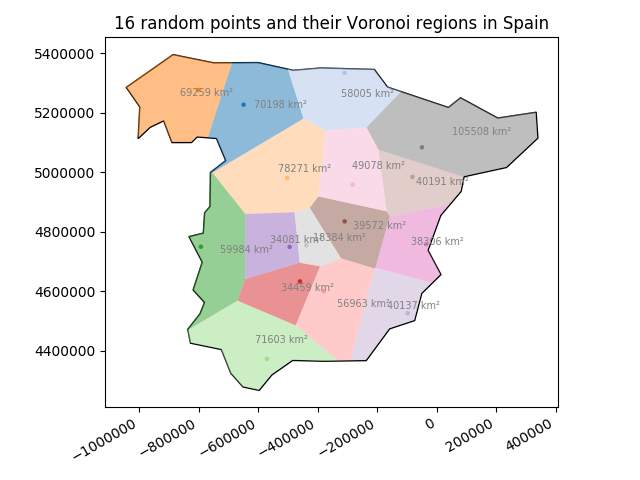
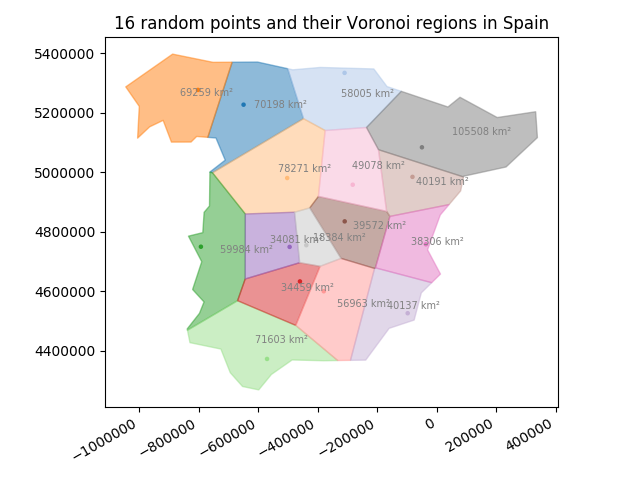
added option shapes_from_diff_with_min_area to voronoi_regions_from_coords

diff --git a/geovoronoi/_voronoi.py b/geovoronoi/_voronoi.py
@@ -11,8 +11,8 @@ import logging
 import numpy as np
 from scipy.spatial import Voronoi
 from scipy.spatial.distance import cdist
-from shapely.geometry import LineString, asPoint
-from shapely.ops import polygonize
+from shapely.geometry import MultiPolygon, LineString, asPoint
+from shapely.ops import polygonize, cascaded_union
 
 from ._geom import polygon_around_center
 
@@ -29,9 +29,11 @@ def points_to_coords(pts):
     return np.array([p.coords[0] for p in pts])
 
 
-def voronoi_regions_from_coords(coords, geo_shape, accept_n_coord_duplicates=0):
-    logger.info('running Voronoi tesselation for %d points with %d expected duplicates'
-                % (len(coords), accept_n_coord_duplicates))
+def voronoi_regions_from_coords(coords, geo_shape,
+                                shapes_from_diff_with_min_area=None,
+                                accept_n_coord_duplicates=None,
+                                return_unassigned_points=False):
+    logger.info('running Voronoi tesselation for %d points' % len(coords))
     vor = Voronoi(coords)
     logger.info('generated %d Voronoi regions' % (len(vor.regions)-1))
 
@@ -39,15 +41,20 @@ def voronoi_regions_from_coords(coords, geo_shape, accept_n_coord_duplicates=0):
     poly_lines = polygon_lines_from_voronoi(vor, geo_shape)
 
     logger.info('generating Voronoi polygon shapes')
-    poly_shapes = polygon_shapes_from_voronoi_lines(poly_lines, geo_shape)
+    poly_shapes = polygon_shapes_from_voronoi_lines(poly_lines, geo_shape,
+                                                    shapes_from_diff_with_min_area=shapes_from_diff_with_min_area)
 
     logger.info('assigning %d points to %d Voronoi polygons' % (len(coords), len(poly_shapes)))
     points = coords_to_points(coords)
-    poly_to_pt_assignments = assign_points_to_voronoi_polygons(points, poly_shapes,
-                                                               accept_n_coord_duplicates=accept_n_coord_duplicates,
-                                                               coords=coords)
+    poly_to_pt_assignments, unassigned_pts = assign_points_to_voronoi_polygons(points, poly_shapes,
+                                                                               accept_n_coord_duplicates=accept_n_coord_duplicates,
+                                                                               return_unassigned_points=True,
+                                                                               coords=coords)
 
-    return poly_shapes, points, poly_to_pt_assignments
+    if return_unassigned_points:
+        return poly_shapes, points, poly_to_pt_assignments, list(unassigned_pts)
+    else:
+        return poly_shapes, points, poly_to_pt_assignments
 
 
 def polygon_lines_from_voronoi(vor, geo_shape, return_only_poly_lines=True):
@@ -117,6 +124,9 @@ def polygon_lines_from_voronoi(vor, geo_shape, return_only_poly_lines=True):
     if not far_points_hull.contains(geo_shape):   # if that's the case, merge it by taking the union
         far_points_hull = far_points_hull.union(geo_shape)
 
+    # vor_mpoly = MultiPolygon([p for p in polygonize(poly_lines)])
+    # far_points_hull = far_points_hull.union(vor_mpoly)
+
     # now add the lines that make up `far_points_hull` to the final `poly_lines` list
     far_points_hull_coords = far_points_hull.exterior.coords
     for i, pt in list(enumerate(far_points_hull_coords))[1:]:
@@ -129,7 +139,7 @@ def polygon_lines_from_voronoi(vor, geo_shape, return_only_poly_lines=True):
         return poly_lines, loose_ridges, far_points
 
 
-def polygon_shapes_from_voronoi_lines(poly_lines, geo_shape=None):
+def polygon_shapes_from_voronoi_lines(poly_lines, geo_shape=None, shapes_from_diff_with_min_area=None):
     """
     Form shapely Polygons objects from a list of shapely LineString objects in `poly_lines` by using
     [`polygonize`](http://toblerity.org/shapely/manual.html#shapely.ops.polygonize). If `geo_shape` is not None, then
@@ -145,10 +155,19 @@ def polygon_shapes_from_voronoi_lines(poly_lines, geo_shape=None):
 
         poly_shapes.append(p)
 
+    if geo_shape is not None and shapes_from_diff_with_min_area is not None:
+        vor_polys_union = cascaded_union(poly_shapes)
+        diff = np.array(geo_shape.difference(vor_polys_union), dtype=object)
+        diff_areas = np.array([p.area for p in diff])
+        poly_shapes.extend(diff[diff_areas >= shapes_from_diff_with_min_area])
+
     return poly_shapes
 
 
-def assign_points_to_voronoi_polygons(points, poly_shapes, accept_n_coord_duplicates=0, coords=None):
+def assign_points_to_voronoi_polygons(points, poly_shapes,
+                                      accept_n_coord_duplicates=None,
+                                      return_unassigned_points=False,
+                                      coords=None):
     """
     Assign a list/array of shapely Point objects `points` to their respective Voronoi polygons passed as list
     `poly_shapes`. Return a list of `assignments` of size `len(poly_shapes)` where ith element in `assignments`
@@ -156,12 +175,22 @@ def assign_points_to_voronoi_polygons(points, poly_shapes, accept_n_coord_duplic
     Normally, 1-to-1 assignments are expected, i.e. for each Voronoi region in `poly_shapes` there's exactly one point
     in `points` belonging to this Voronoi region. However, if there are duplicate coordinates in `points`, then those
     duplicates will be assigned together to their Voronoi region and hence there is a 1-to-n relationship between
-    Voronoi regions and points. In this case `accept_n_coord_duplicates` should be set to the number of duplicates in
-    `points` and a nested list of assignments will be returned (this is also the case when `flatten_assignments` is
-    False).
+    Voronoi regions and points. If `accept_n_coord_duplicates` is set to None, then an anunspecified number of duplicates
+    are generally allowed. If `accept_n_coord_duplicates` is 0, then no point duplicates are allowed, otherwise
+    exactly `accept_n_coord_duplicates` duplicates are allowed.
     """
     n_polys = len(poly_shapes)
     n_points = len(points)
+
+    if n_polys > n_points:
+        raise ValueError('The number of voronoi regions must be smaller or equal to the number of points')
+
+    if accept_n_coord_duplicates is None:
+        dupl_restricted = False
+        accept_n_coord_duplicates = n_points - n_polys
+    else:
+        dupl_restricted = True
+
     expected_n_geocoords = n_points - accept_n_coord_duplicates
 
     if coords is None:
@@ -200,10 +229,21 @@ def assign_points_to_voronoi_polygons(points, poly_shapes, accept_n_coord_duplic
         assignments.append(assigned_pts)
         n_assigned_dupl += len(assigned_pts)-1
 
-    assert sum(map(len, assignments)) == len(poly_shapes) + accept_n_coord_duplicates
-    assert len(set(sum(assignments, []))) == n_points   # make sure all points were assigned
+    assert len(assignments) == len(poly_shapes)
 
-    return assignments
+    if dupl_restricted:
+        assert n_assigned_dupl == accept_n_coord_duplicates
+        assert sum(map(len, assignments)) == len(poly_shapes) + accept_n_coord_duplicates
+        assert len(set(sum(assignments, []))) == n_points   # make sure all points were assigned
+        unassigned_pt_indices = set()
+    else:
+        assigned_pt_indices = set(sum(assignments, []))
+        unassigned_pt_indices = set(range(n_points)) - assigned_pt_indices
+
+    if return_unassigned_points:
+        return assignments, unassigned_pt_indices
+    else:
+        return assignments
 
 
 def get_points_to_poly_assignments(poly_to_pt_assignments):

diff --git a/examples/random_points_and_area.py b/examples/random_points_and_area.py
@@ -47,7 +47,7 @@ del pts
 # calculate the Voronoi regions, cut them with the geographic area shape and assign the points to them
 #
 
-poly_shapes, pts, poly_to_pt_assignments = voronoi_regions_from_coords(coords, area_shape)
+poly_shapes, pts, poly_to_pt_assignments = voronoi_regions_from_coords(coords, area_shape, shapes_from_diff_with_min_area=1)
 
 poly_areas = calculate_polygon_areas(poly_shapes, m2_to_km2=True)   # converts m² to km²
 
